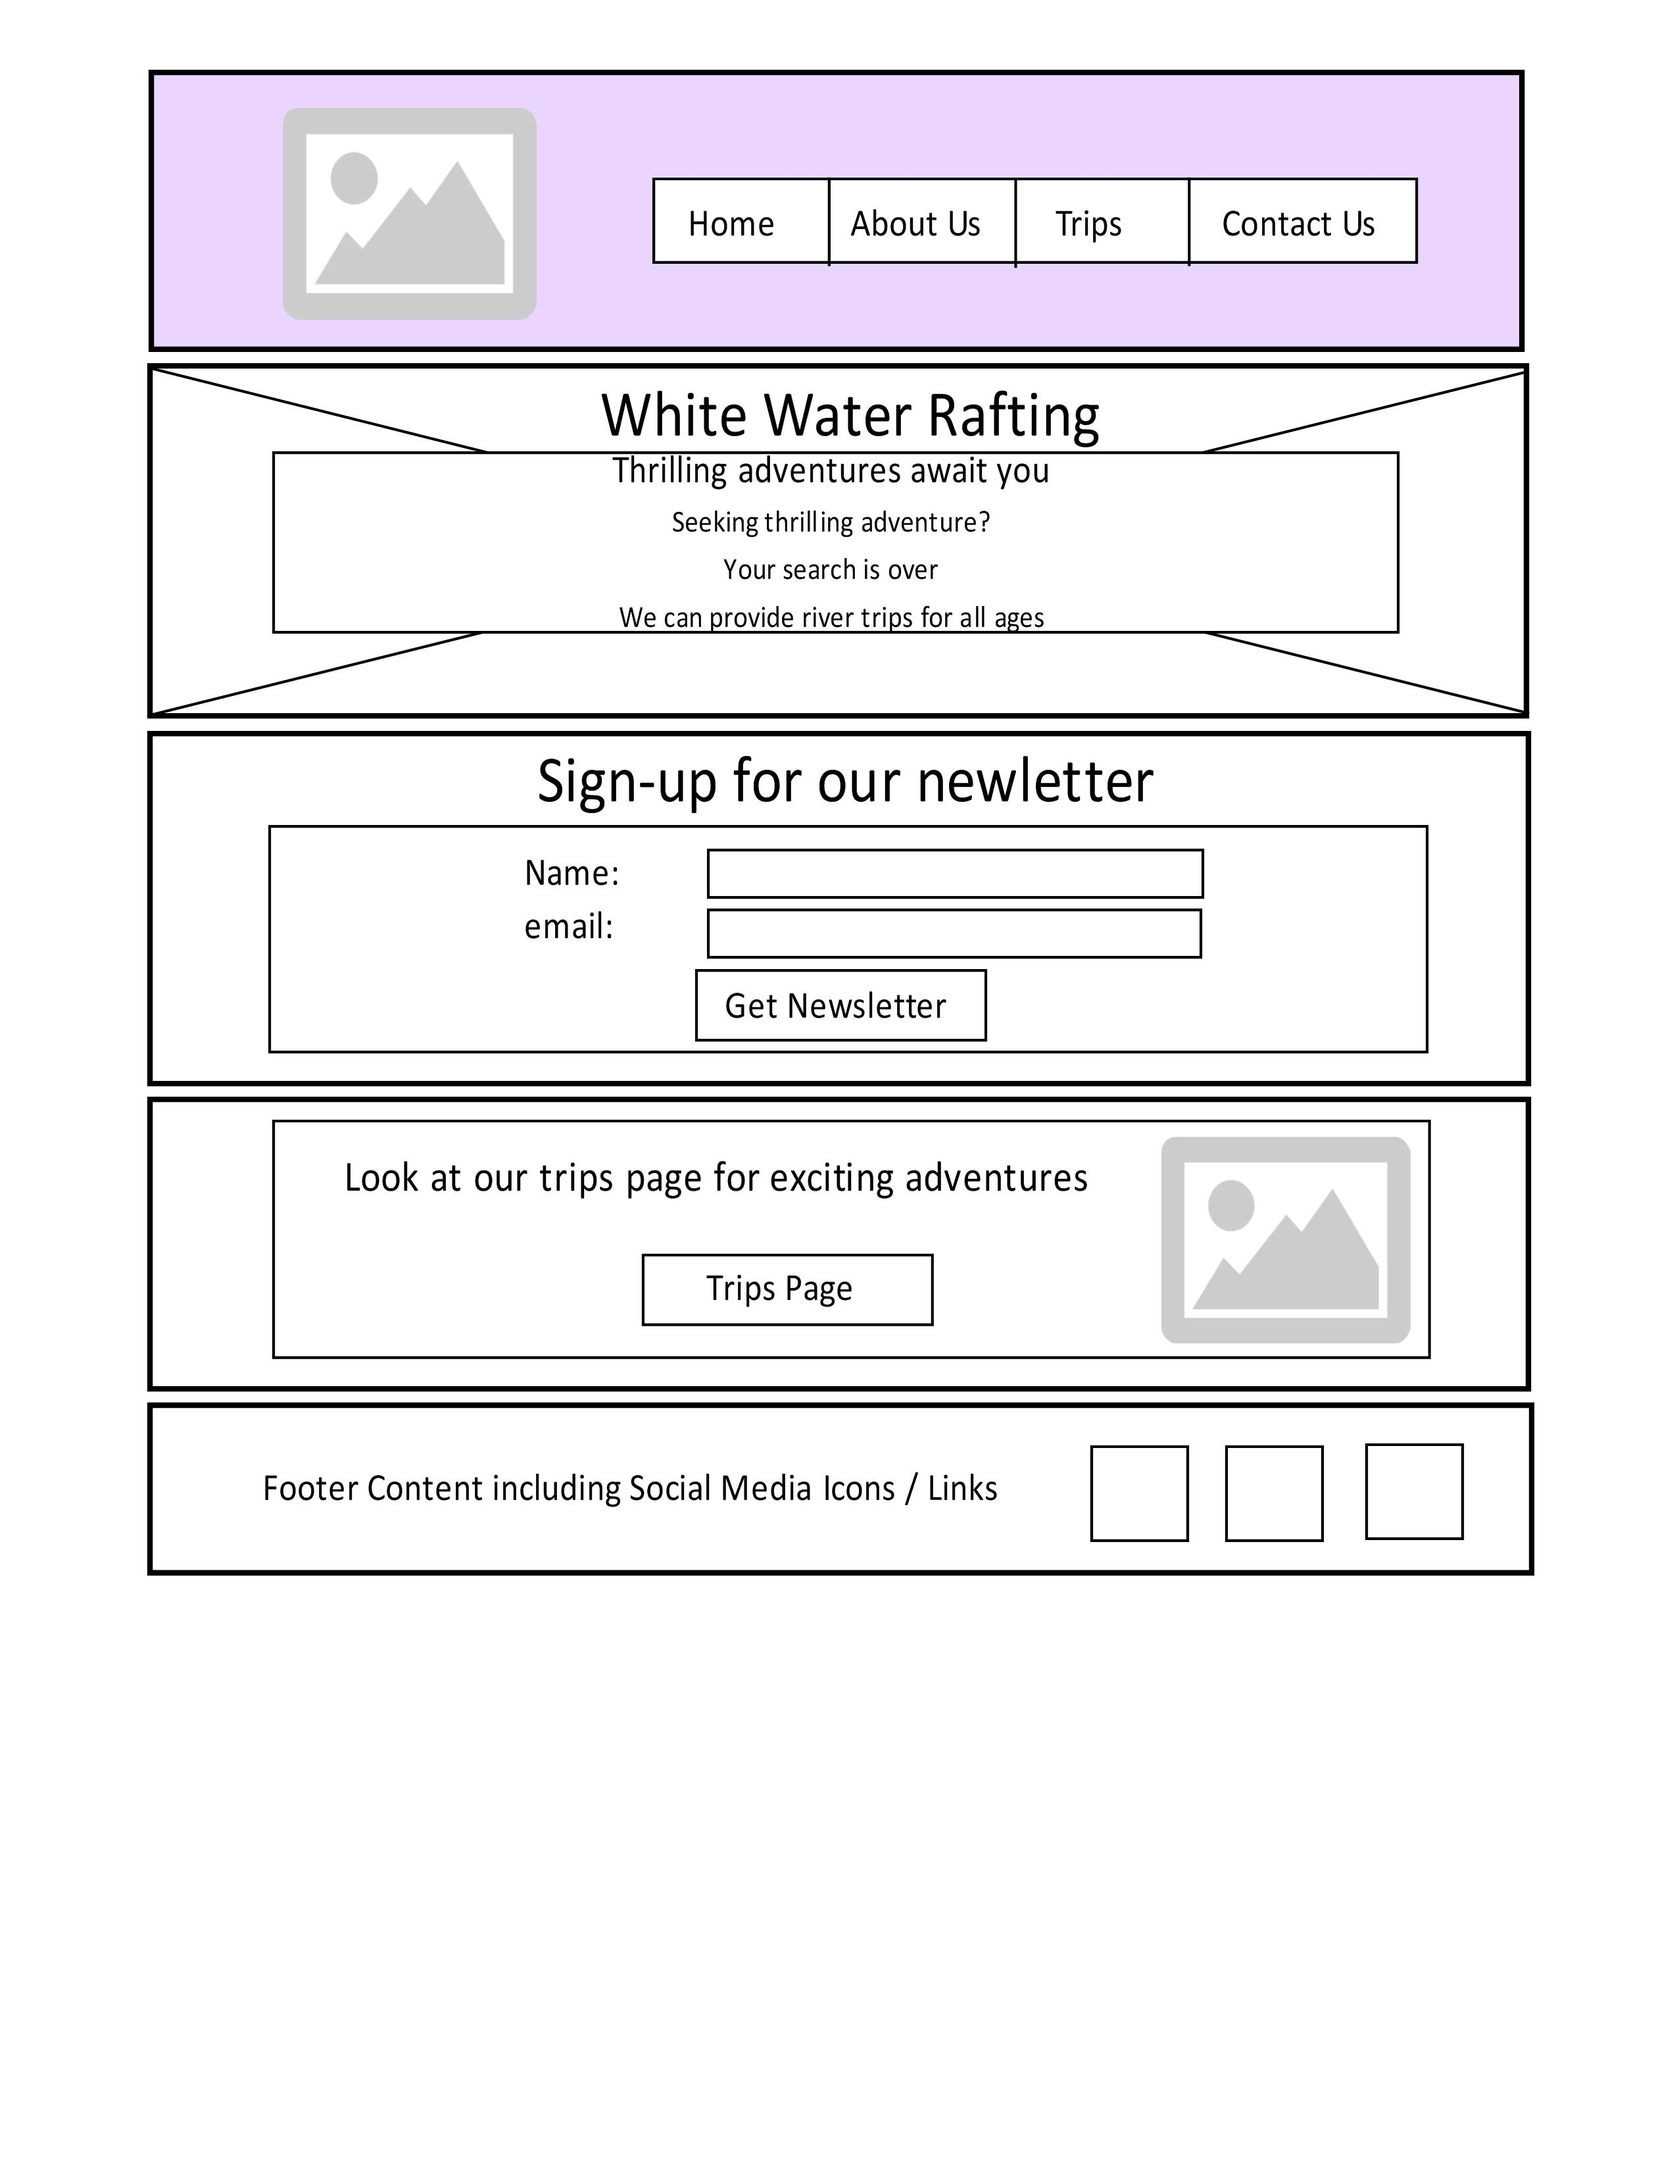
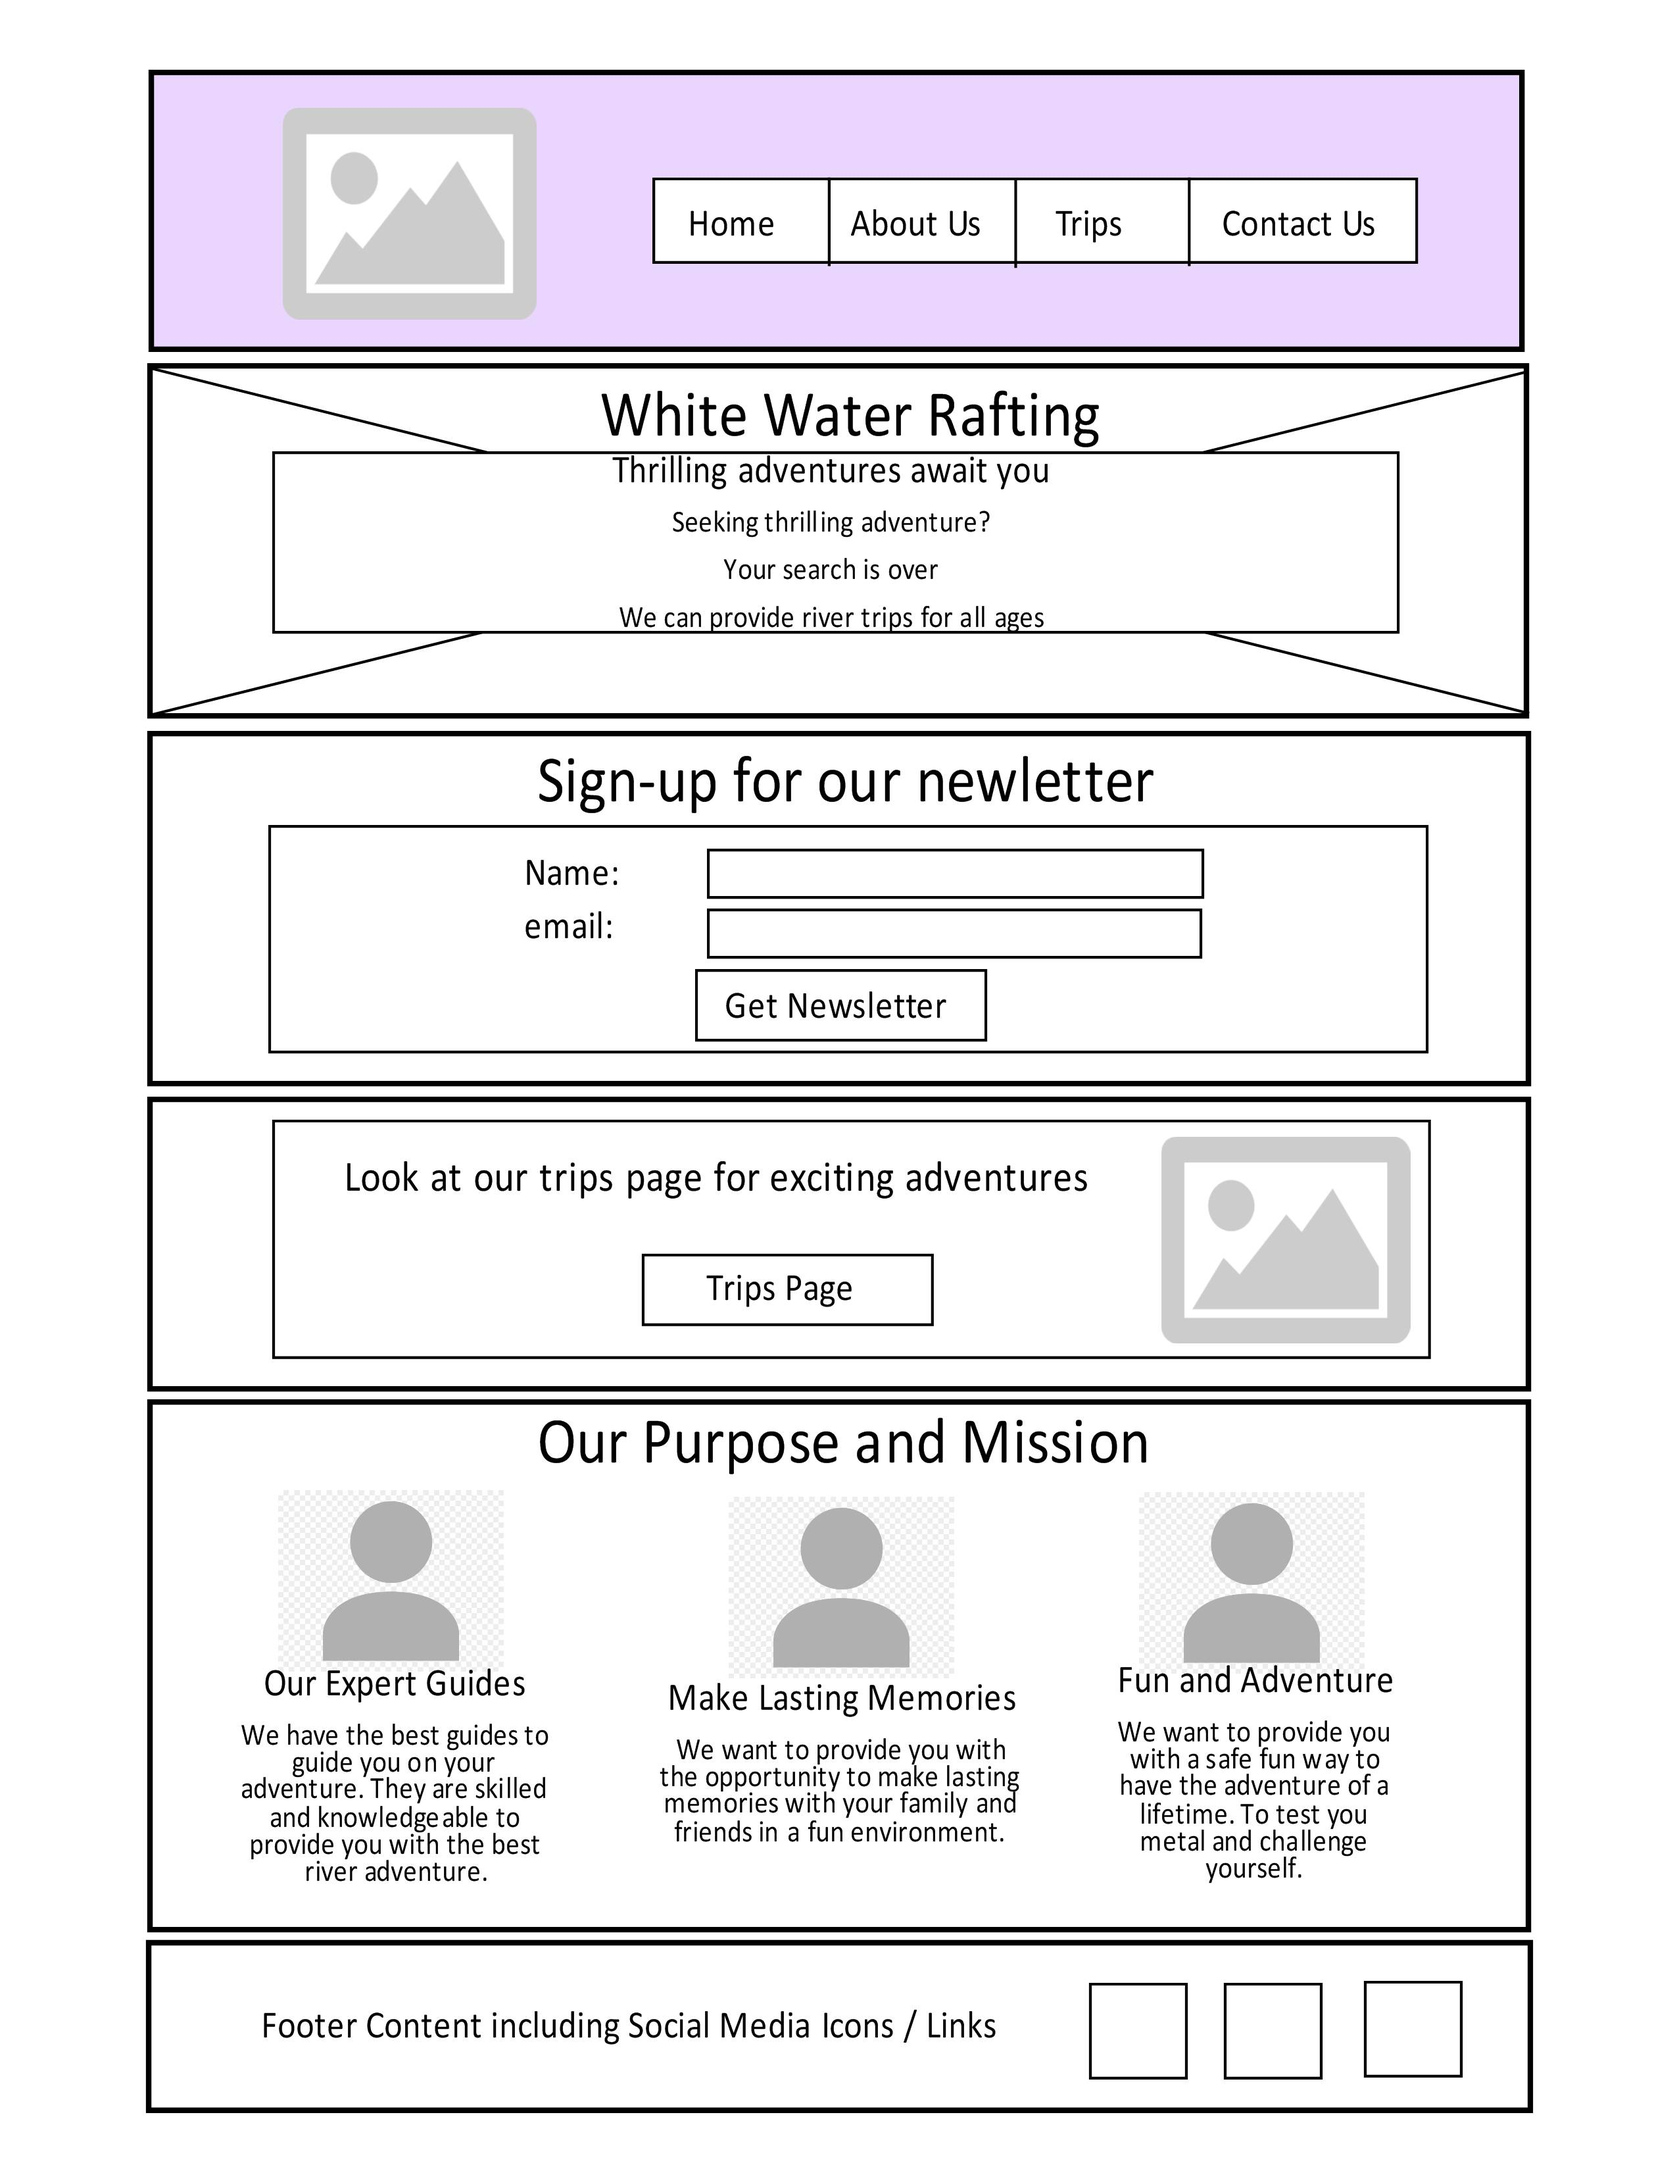
Add purpose section to Home Page and update the Home Page wireframe

Changed region(s): [[0.062, 0.6555, 0.9294, 0.9676], [0.0929, 0.6242, 0.8984, 0.8427]]

diff --git a/wwr/index.html b/wwr/index.html
@@ -70,7 +70,43 @@
                 </div>
             </article>
         </div>
-
+        <section>
+            <div class="gallery">
+                <div class="gbanner">
+                    <h2>Our Purpose and Mission</h2>
+                </div>
+                <div class="gpics1">
+                    <img src="images/female-guide.png" alt="Expert Guide Picture">
+                <figure>
+                    <figcaption>Our Expert Guides</figcaption>
+                </figure>
+                
+                </div>
+                <div class="gpics2">
+                        <img src="images/family-and-friends.png" alt="Group of Friend Picture">
+                    <figure>
+                        <figcaption>Lasting Memories</figcaption>
+                    </figure>
+                </div>
+                <div class="gpics3">
+                        <img src="images/adventure.png" alt="adventurous Rafting Picture">
+                    <figure>
+                        <figcaption>Adventure and Fun</figcaption>
+                    </figure>
+                </div>
+            </div>
+            <div class="trip">
+                <div class="trip-desc1">
+                    <p>We pride ourselves in providing some of the industries best guides. Ensuring you have a safe and informative adventure. You'll have fun while also learning about the environment around you.</p>
+                </div>
+                <div class="trip-desc2">
+                    <p>Some of life's best memories are those you share. Our goal is to provide an atmosphere of fun and adventure that builds positive and lasting memories with family and friends.</p>
+                </div>
+                <div class="trip-desc3">
+                    <p>We want to provide the opportunity of a safe fun thrilling river trip to all adventure seekers. Where you can test your metal, push your limits and challenge your abilities.</p>
+                </div>
+            </div>
+        </section>
     </main>
 
     <footer class="foot">

diff --git a/wwr/styles/rafting.css b/wwr/styles/rafting.css
@@ -418,9 +418,6 @@ td {
     font-size: 1.4rem;
 }
 
-.call {
-    padding-bottom: 1rem;
-}
 
 .book3 button {
     margin: .75rem 5rem .5rem 15.5rem;
